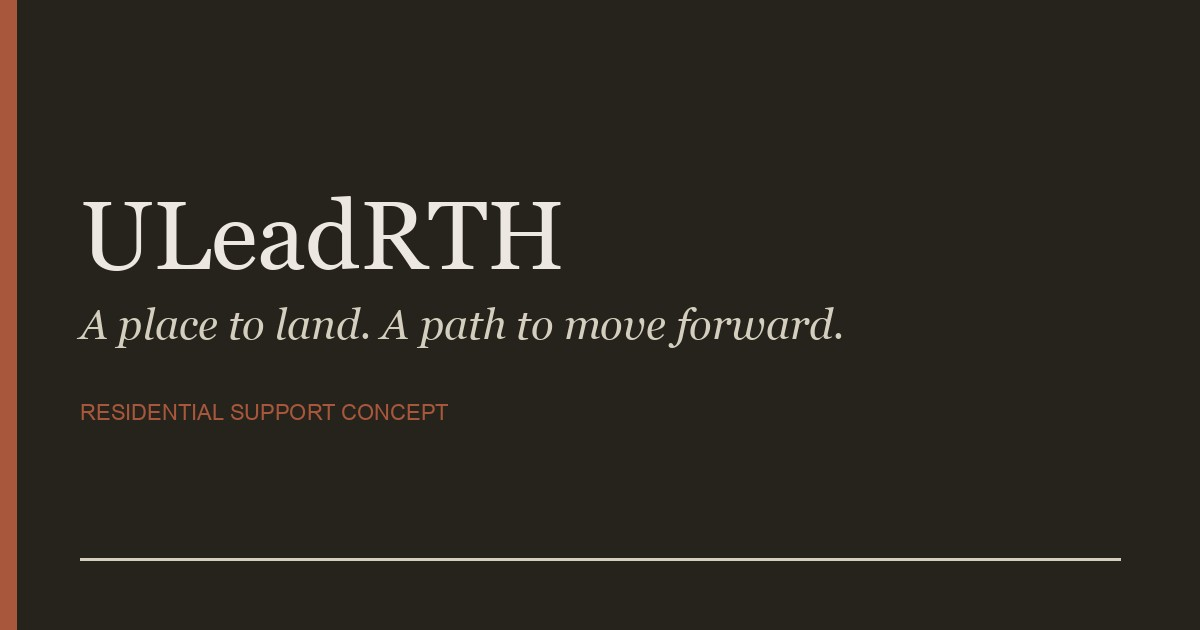
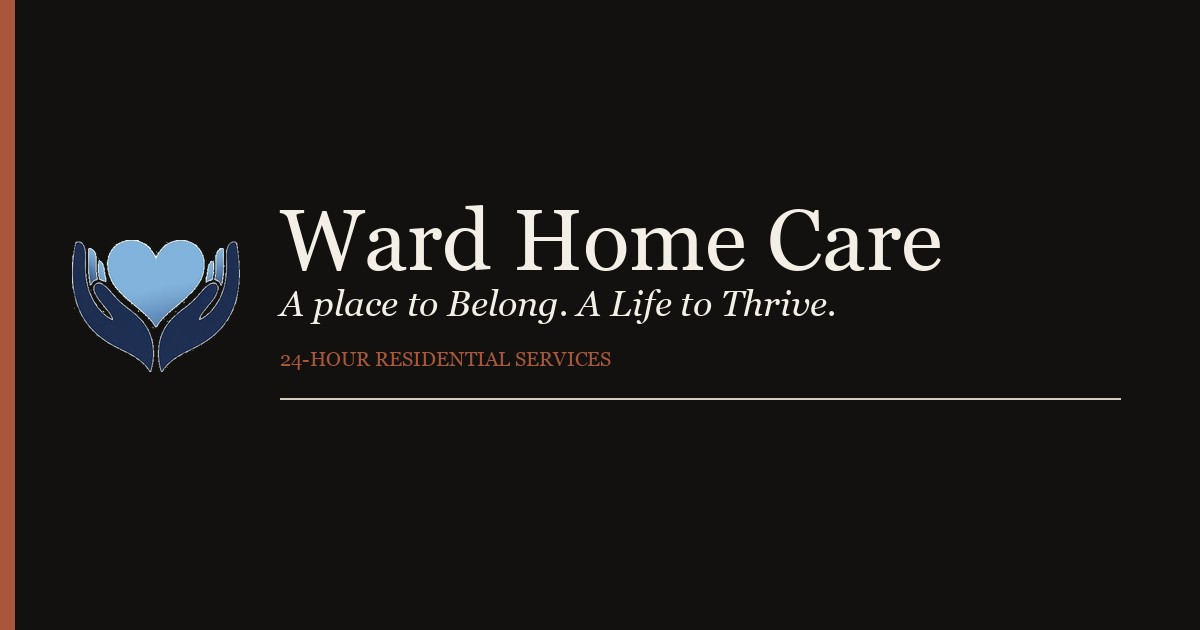
Replace the old ULeadRTH link preview with the Ward Home Care card.

diff --git a/artifacts/wardhomecare-site/index.html b/artifacts/wardhomecare-site/index.html
@@ -10,12 +10,14 @@
     <meta property="og:description" content="Ward Home Care, Inc. (WHC) provides 24-hour residential services for adults with intellectual and developmental disabilities in Salem, Oregon." />
     <meta property="og:type" content="website" />
     <meta property="og:site_name" content="Ward Home Care" />
-    <meta property="og:image" content="/images/og.jpg" />
+    <meta property="og:image" content="/images/og-ward.jpg" />
+    <meta property="og:image:width" content="1200" />
+    <meta property="og:image:height" content="630" />
     <meta property="og:image:alt" content="Ward Home Care — 24-hour residential services in Salem, Oregon" />
     <meta name="twitter:card" content="summary_large_image" />
     <meta name="twitter:title" content="Ward Home Care | 24-Hour Residential Services" />
     <meta name="twitter:description" content="Ward Home Care, Inc. (WHC) provides 24-hour residential services for adults with intellectual and developmental disabilities in Salem, Oregon." />
-    <meta name="twitter:image" content="/images/og.jpg" />
+    <meta name="twitter:image" content="/images/og-ward.jpg" />
     <meta name="twitter:image:alt" content="Ward Home Care — 24-hour residential services in Salem, Oregon" />
     <link rel="icon" type="image/png" href="/favicon.png" />
     <link rel="apple-touch-icon" href="/images/brand/favicon.png" />

diff --git a/artifacts/wardhomecare-site/tests/public-site.spec.ts b/artifacts/wardhomecare-site/tests/public-site.spec.ts
@@ -95,7 +95,7 @@ for (const pageDetails of publicPages) {
     );
     await expect(page.locator('meta[property="og:image"]')).toHaveAttribute(
       'content',
-      /\/images\/og\.jpg$/,
+      /\/images\/og-ward\.jpg$/,
     );
     await expect(page.locator('link[rel="canonical"]')).toHaveAttribute(
       'href',

diff --git a/artifacts/wardhomecare-site/src/components/SEO.tsx b/artifacts/wardhomecare-site/src/components/SEO.tsx
@@ -3,7 +3,7 @@ import { useLocation } from 'wouter';
 
 import { BRAND } from '@/lib/brand';
 
-const DEFAULT_OG_IMAGE = '/images/og.jpg';
+const DEFAULT_OG_IMAGE = '/images/og-ward.jpg';
 const SITE_NAME = BRAND.displayName;
 
 interface SEOProps {
